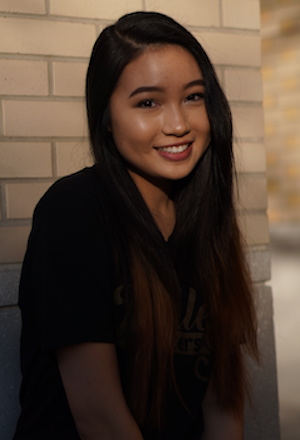
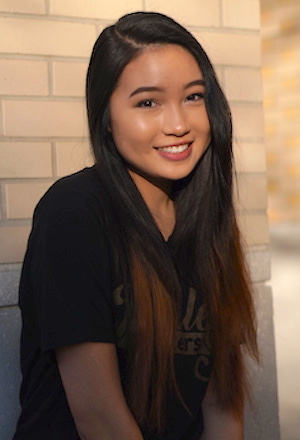
Added new headshots!
- updated "county"
- renewed Amy's photo

diff --git a/index.html b/index.html
@@ -178,7 +178,7 @@
             <div class="time">6:30PM</div>
           </div>
           <div class="description">
-            <h2>Light Up Night<span> | City-Council Building </span></h2>
+            <h2>Light Up Night<span> | City-County Building </span></h2>
             <p>Join us as we ring in the holiday season with the City of Pittsburgh! We will be singing holiday favorites during Pittsburgh’s annual Light Up Night celebration at the City-County Building portico.</p>
           </div>
         </div>
@@ -266,6 +266,141 @@
 
       <!-- First Row -->
       <div class="uk-grid" data-uk-grid-match="{row: false}">
+
+        <div class="uk-width-1-2 uk-width-medium-1-3">
+          <figure class="uk-thumbnail">
+              <img src="img/members20/tbaer.sm.JPG" />
+              <figcaption class="uk-thumbnail-caption">
+                  <h3> Taylor Kay Baer </h3>
+                  Vocal Performance 2021 </br>
+                  Soprano </br> 
+                  Music Director &amp; Asst. Choreographer
+              </figcaption>
+          </figure>
+        </div>
+
+        <div class="uk-width-1-2 uk-width-medium-1-3">
+          <figure class="uk-thumbnail">
+              <img src="img/members20/msprigg.sm.JPG" />
+              <figcaption class="uk-thumbnail-caption">
+                  <h3> Max Sprigg-Dudley </h3>
+                  Chemistry 2022 </br>
+                  Bass &amp; President
+              </figcaption>
+          </figure>
+        </div>
+
+        <div class="uk-width-1-2 uk-width-medium-1-3">
+          <figure class="uk-thumbnail">
+              <img src="img/members20/lwholey.sm.JPG" />
+              <figcaption class="uk-thumbnail-caption">
+                  <h3> Lauren Wholey </h3>
+                  Business 2020 </br>
+                  Alto &amp; Secretary
+              </figcaption>
+          </figure>
+        </div>
+
+        <div class="uk-width-1-2 uk-width-medium-1-3">
+          <figure class="uk-thumbnail">
+              <img src="img/members20/bli.sm.JPG" />
+              <figcaption class="uk-thumbnail-caption">
+                  <h3> Brandon Li </h3>
+                  Computer Science 2020</br>
+                  VP/Baritone
+              </figcaption>
+          </figure>
+        </div>
+
+        <div class="uk-width-1-2 uk-width-medium-1-3">
+          <figure class="uk-thumbnail">
+              <img src="img/members20/hhong.sm.JPG" />
+              <figcaption class="uk-thumbnail-caption">
+                  <h3> Hannah Hong </h3>
+                  Mechanical Engineering 2023</br>
+                  Soprano
+              </figcaption>
+          </figure>
+        </div>
+
+        <div class="uk-width-1-2 uk-width-medium-1-3">
+          <figure class="uk-thumbnail">
+              <img src="img/members20/bbrown.sm.JPG" />
+              <figcaption class="uk-thumbnail-caption">
+                  <h3> Brennan Brown </h3>
+                  Vocal Performance 2021 </br>
+                  Baritone &amp; Asst. Music Director
+              </figcaption>
+          </figure>
+        </div>
+
+        <div class="uk-width-1-2 uk-width-medium-1-3">
+          <figure class="uk-thumbnail">
+              <img src="img/members20/mdodds.sm.JPG" />
+              <figcaption class="uk-thumbnail-caption">
+                  <h3> Morgan Dodds </h3>
+                  Vocal Performance 2023</br>
+                  Alto &amp; Head Choreographer
+              </figcaption>
+          </figure>
+        </div>
+
+        <div class="uk-width-1-2 uk-width-medium-1-3">
+          <figure class="uk-thumbnail">
+              <img src="img/members20/patrick.sm.JPG" />
+              <figcaption class="uk-thumbnail-caption">
+                  <h3> Patrick Zhang </h3>
+                  Computer Science 2023</br>
+                  Baritone
+              </figcaption>
+          </figure>
+        </div>
+
+        <div class="uk-width-1-2 uk-width-medium-1-3">
+          <figure class="uk-thumbnail">
+              <img src="img/members20/cmaggio.sm.JPG" />
+              <figcaption class="uk-thumbnail-caption">
+                  <h3> Connor Maggio </h3>
+                  Electrical and Computer Engineering 2020</br>
+                  Tenor &amp; Tech Director
+              </figcaption>
+          </figure>
+        </div>
+
+        <div class="uk-width-1-2 uk-width-medium-1-3">
+          <figure class="uk-thumbnail">
+              <img src="img/members20/apandit.sm.JPG" />
+              <figcaption class="uk-thumbnail-caption">
+                  <h3> Avanti Pandit </h3>
+                  Chemistry 2020 </br>
+                  Alto &amp; Vice President </br>
+                  &amp; Asst. Music Director
+              </figcaption>
+          </figure>
+        </div>
+
+        <div class="uk-width-1-2 uk-width-medium-1-3">
+          <figure class="uk-thumbnail">
+              <img src="img/members20/sue.sm.JPG" />
+              <figcaption class="uk-thumbnail-caption">
+                  <h3> Sue Hur </h3>
+                  Psychology 2023</br>
+                  Soprano
+              </figcaption>
+          </figure>
+        </div>
+
+        <div class="uk-width-1-2 uk-width-medium-1-3">
+          <figure class="uk-thumbnail">
+              <img src="img/members20/nsalazar.sm.JPG" />
+              <figcaption class="uk-thumbnail-caption">
+                  <h3> Natalie Salazar </h3>
+                  Business 2023</br>
+                  Alto
+              </figcaption>
+          </figure>
+        </div>
+
         <div class="uk-width-1-2 uk-width-medium-1-3">
           <figure class="uk-thumbnail">
               <img src="img/members19/aliu.sm.JPG" />
@@ -279,64 +414,7 @@
 
         <div class="uk-width-1-2 uk-width-medium-1-3">
           <figure class="uk-thumbnail">
-              <img src="img/members19/cmaggio.sm.JPG" />
-              <figcaption class="uk-thumbnail-caption">
-                  <h3> Connor Maggio </h3>
-                  Electrical and Computer Engineering 2020</br>
-                  Tenor &amp; Tech Director
-              </figcaption>
-          </figure>
-        </div>
-
-        <div class="uk-width-1-2 uk-width-medium-1-3">
-          <figure class="uk-thumbnail">
-              <img src="img/members19/lwholey.sm.JPG" />
-              <figcaption class="uk-thumbnail-caption">
-                  <h3> Lauren Wholey </h3>
-                  Business 2020 </br>
-                  Alto &amp; Secretary
-              </figcaption>
-          </figure>
-        </div>
-
-        <div class="uk-width-1-2 uk-width-medium-1-3">
-          <figure class="uk-thumbnail">
-              <img src="img/members19/tbaer.sm.JPG" />
-              <figcaption class="uk-thumbnail-caption">
-                  <h3> Taylor Kay Baer </h3>
-                  Vocal Performance 2021 </br>
-                  Soprano </br> 
-                  Music Director &amp; Head Choreographer
-              </figcaption>
-          </figure>
-        </div>
-
-        <div class="uk-width-1-2 uk-width-medium-1-3">
-          <figure class="uk-thumbnail">
-              <img src="img/members19/msd.sm.JPG" />
-              <figcaption class="uk-thumbnail-caption">
-                  <h3> Max Sprigg-Dudley </h3>
-                  Chemistry 2022 </br>
-                  Bass &amp; President
-              </figcaption>
-          </figure>
-        </div>
-
-        <div class="uk-width-1-2 uk-width-medium-1-3">
-          <figure class="uk-thumbnail">
-              <img src="img/members19/avanti.sm.JPG" />
-              <figcaption class="uk-thumbnail-caption">
-                  <h3> Avanti Pandit </h3>
-                  Chemistry 2020 </br>
-                  Alto &amp; Vice President </br>
-                  &amp; Asst. Music Director
-              </figcaption>
-          </figure>
-        </div>
-
-        <div class="uk-width-1-2 uk-width-medium-1-3">
-          <figure class="uk-thumbnail">
-              <img src="img/members19/jon.sm.JPG" />
+              <img src="img/members20/jgoodman.sm.JPG" />
               <figcaption class="uk-thumbnail-caption">
                   <h3> Jon Goodstein </h3>
                   Chemistry 2021 </br>
@@ -347,22 +425,11 @@
 
         <div class="uk-width-1-2 uk-width-medium-1-3">
           <figure class="uk-thumbnail">
-              <img src="img/members19/mira.sm.JPG" />
+              <img src="img/members20/mmook.sm.JPG" />
               <figcaption class="uk-thumbnail-caption">
                   <h3> Mira Mookerjee </h3>
                   IS 2022 </br>
                   Soprano
-              </figcaption>
-          </figure>
-        </div>
-
-        <div class="uk-width-1-2 uk-width-medium-1-3">
-          <figure class="uk-thumbnail">
-              <img src="img/members19/bbrown.sm.JPG" />
-              <figcaption class="uk-thumbnail-caption">
-                  <h3> Brennan Brown </h3>
-                  Vocal Performance 2021 </br>
-                  Baritone &amp; Asst. Music Director
               </figcaption>
           </figure>
         </div>
